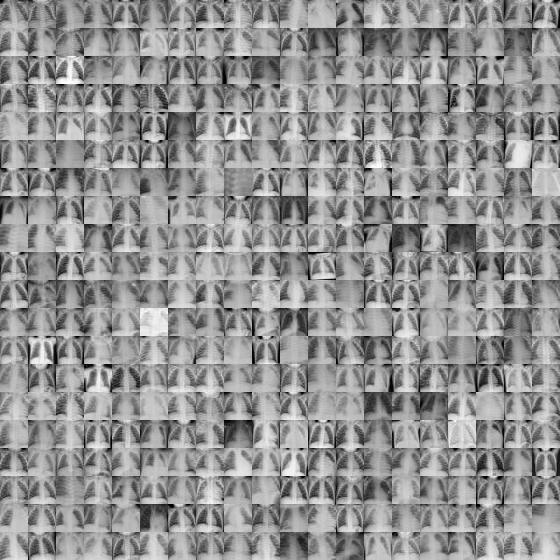
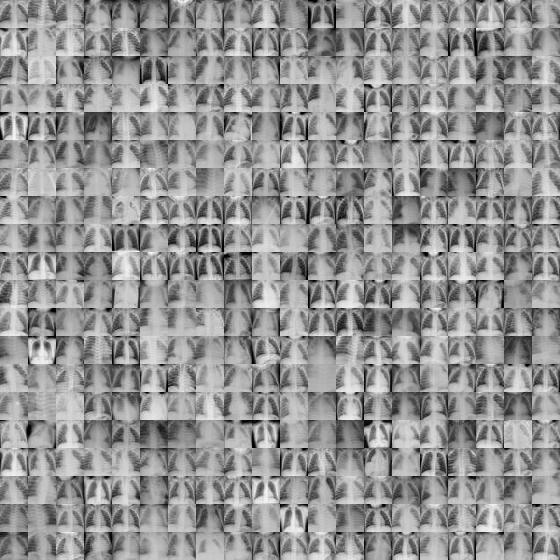
svmmethod

diff --git a/A/dataset.py b/A/dataset.py
@@ -1,14 +1,12 @@
 
 import numpy as np
-import pandas as pd
-import matplotlib.pyplot as plt
+
 import random
-import cv2
 import os
-from tqdm import tqdm
 import skimage
 from skimage.util import montage as skimage_montage
 from PIL import Image
+BATCH_SIZE = 128
 
 
 datapath = 'Datasets/pneumoniamnist.npz'
@@ -68,28 +66,36 @@ def montage2d(imgs, n_channels, sel):
     return montage_img
 
 '''------- Copied exactly from the MEDMNIST repo: https://github.com/MedMNIST/MedMNIST/blob/main/examples/dataset_without_pytorch.py#L132-------'''
+
+
+#This function visualizes the dataset and save in the folder'save_folder'
+def montage_and_save(imgs, length = 20):
+    n_sel = length * length
+    sel = np.random.choice(imgs.shape[0], size=n_sel, replace=False)
+
+    montage_img = montage2d(imgs=imgs,
+                            n_channels=n_channels,
+                            sel=sel)
+
+
+    save_folder = 'save_folder'
+    if save_folder is not None:
+        if not os.path.exists(save_folder):
+            os.makedirs(save_folder)
+        montage_img.save(os.path.join(save_folder,
+                                        f"task_A_train_montage.jpg"))
+    return montage_img
+
+
+
+
 npz = np.load(datapath)
-# print(npz_file.files)
+
 print(npz['train_labels'])
-BATCH_SIZE = 128
-train_images = npz['train_images']
-train_loader = get_loader(dataset=train_images, batch_size=BATCH_SIZE)
-
-length = 20
-n_sel = length * length
-sel = np.random.choice(train_images.shape[0], size=n_sel, replace=False)
-
-montage_img = montage2d(imgs=train_images,
-                        n_channels=n_channels,
-                        sel=sel)
 
 
 
-save_folder = 'save_folder'
-if save_folder is not None:
-    if not os.path.exists(save_folder):
-        os.makedirs(save_folder)
-    montage_img.save(os.path.join(save_folder,
-                                    f"task_A_train_montage.jpg"))
+
+
 
 

diff --git a/A/train_and_eval_svm.py b/A/train_and_eval_svm.py
@@ -1,0 +1,47 @@
+import numpy as np
+import os
+
+import pandas as pd
+from skimage.transform import resize 
+from skimage.io import imread 
+from sklearn.model_selection import GridSearchCV 
+from sklearn.metrics import accuracy_score 
+from sklearn.metrics import classification_report
+from sklearn import svm 
+
+
+input_root = 'Datasets/'
+data_flag = 'pneumoniamnist'
+npz= np.load(os.path.join(input_root, "{}.npz".format(data_flag)))
+x_train = npz['train_images']
+y_train = npz['train_labels']
+x_test =  npz['test_images']
+y_test = npz['test_labels']
+x_val = npz['val_images']
+y_val = npz['val_labels']
+
+size = x_train[0].size
+X_train = x_train.reshape(x_train.shape[0], size, )
+X_val = x_val.reshape(x_val.shape[0], size, )
+X_test = x_test.reshape(x_test.shape[0], size, )
+
+
+
+# Defining the parameters grid for GridSearchCV 
+param_grid={'C':[0.1,1,10,100], 
+            'gamma':[0.0001,0.001,0.1,1], 
+            'kernel':['rbf','poly']} 
+  
+# Creating a support vector classifier 
+svc=svm.SVC(probability=True) 
+  
+# Creating a model using GridSearchCV with the parameters grid 
+model=GridSearchCV(svc,param_grid)
+model.fit(X_train,y_train)
+
+   
+
+
+
+    
+    
